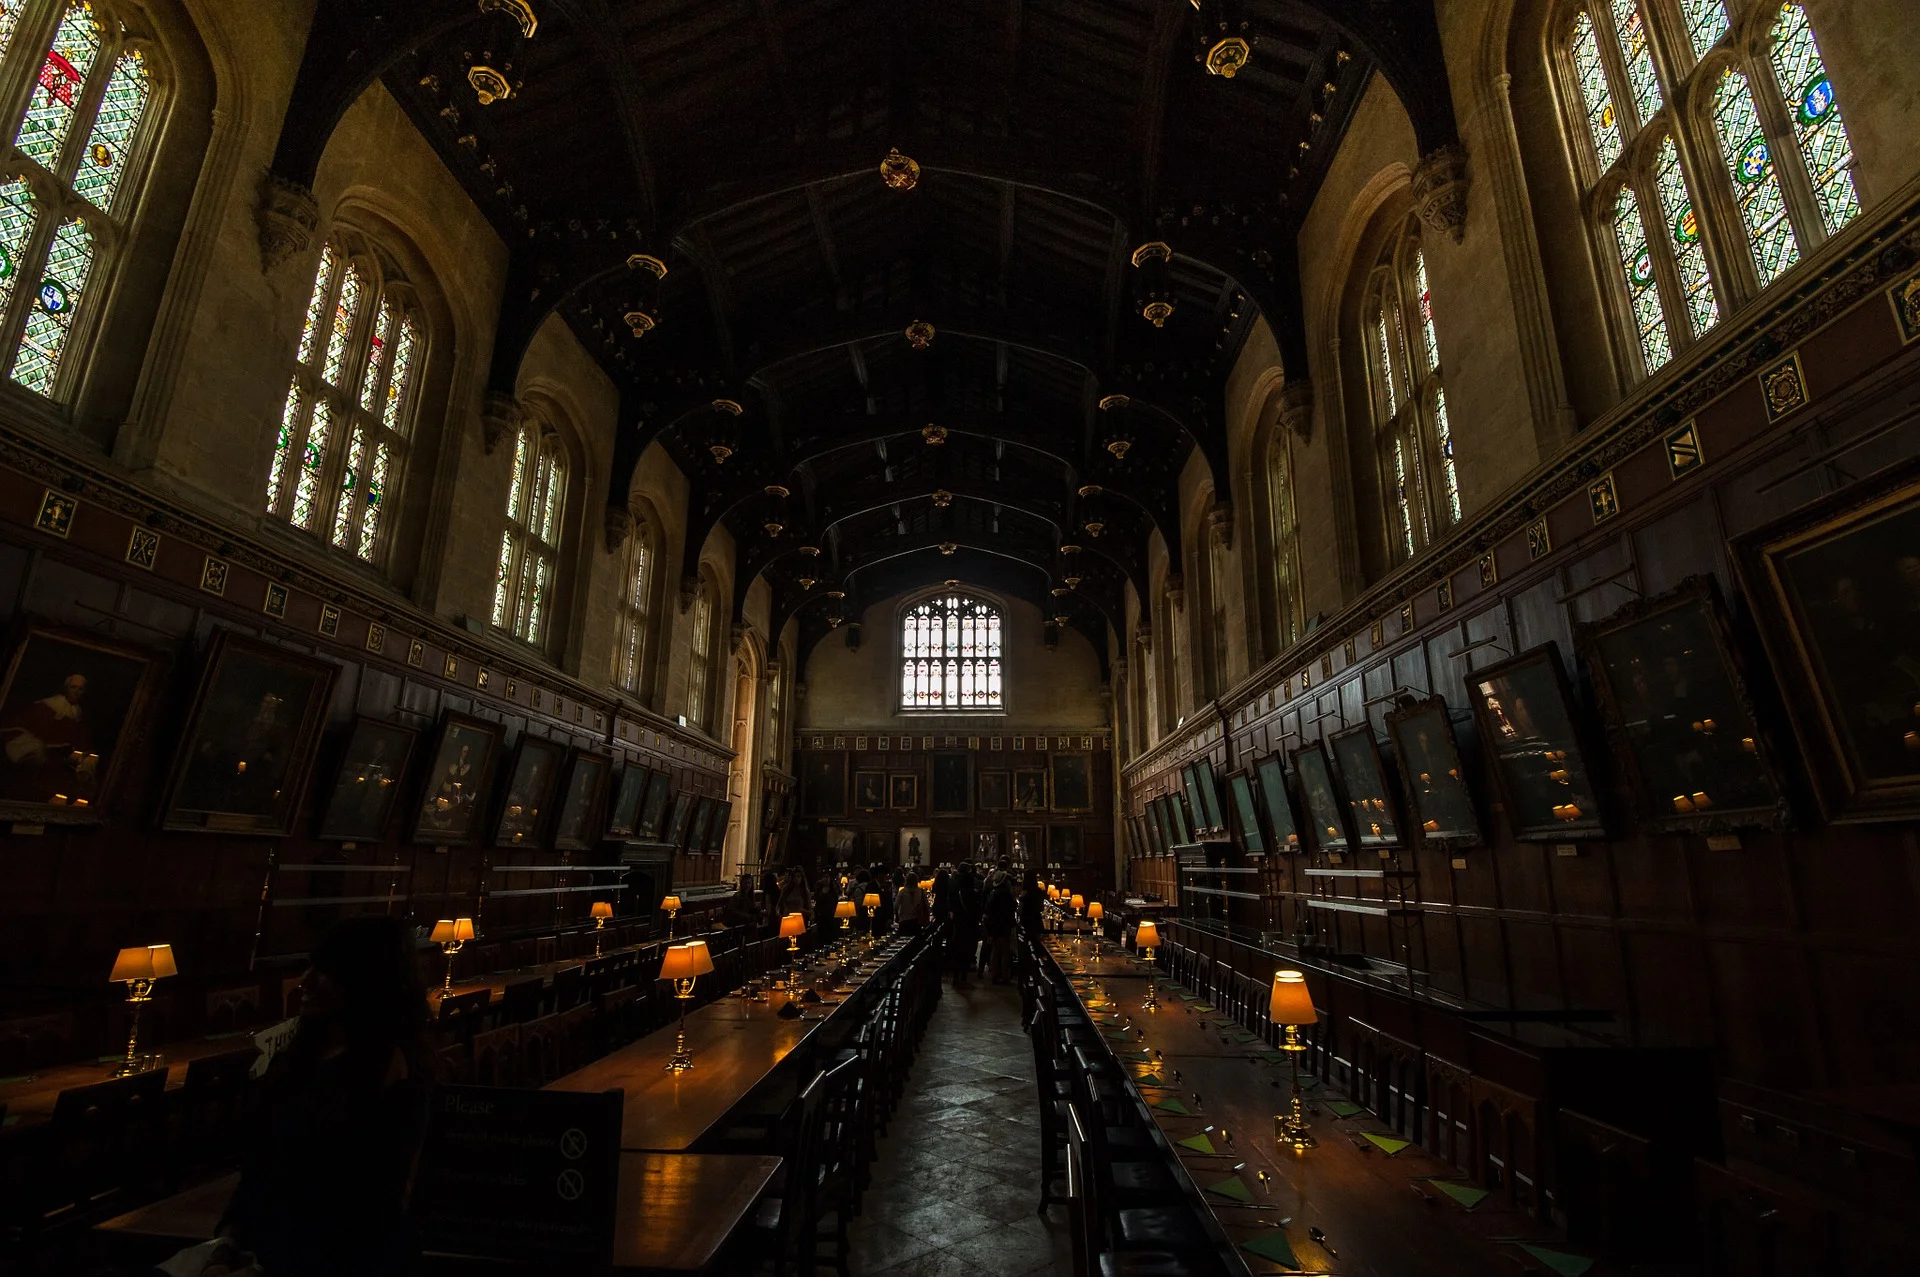
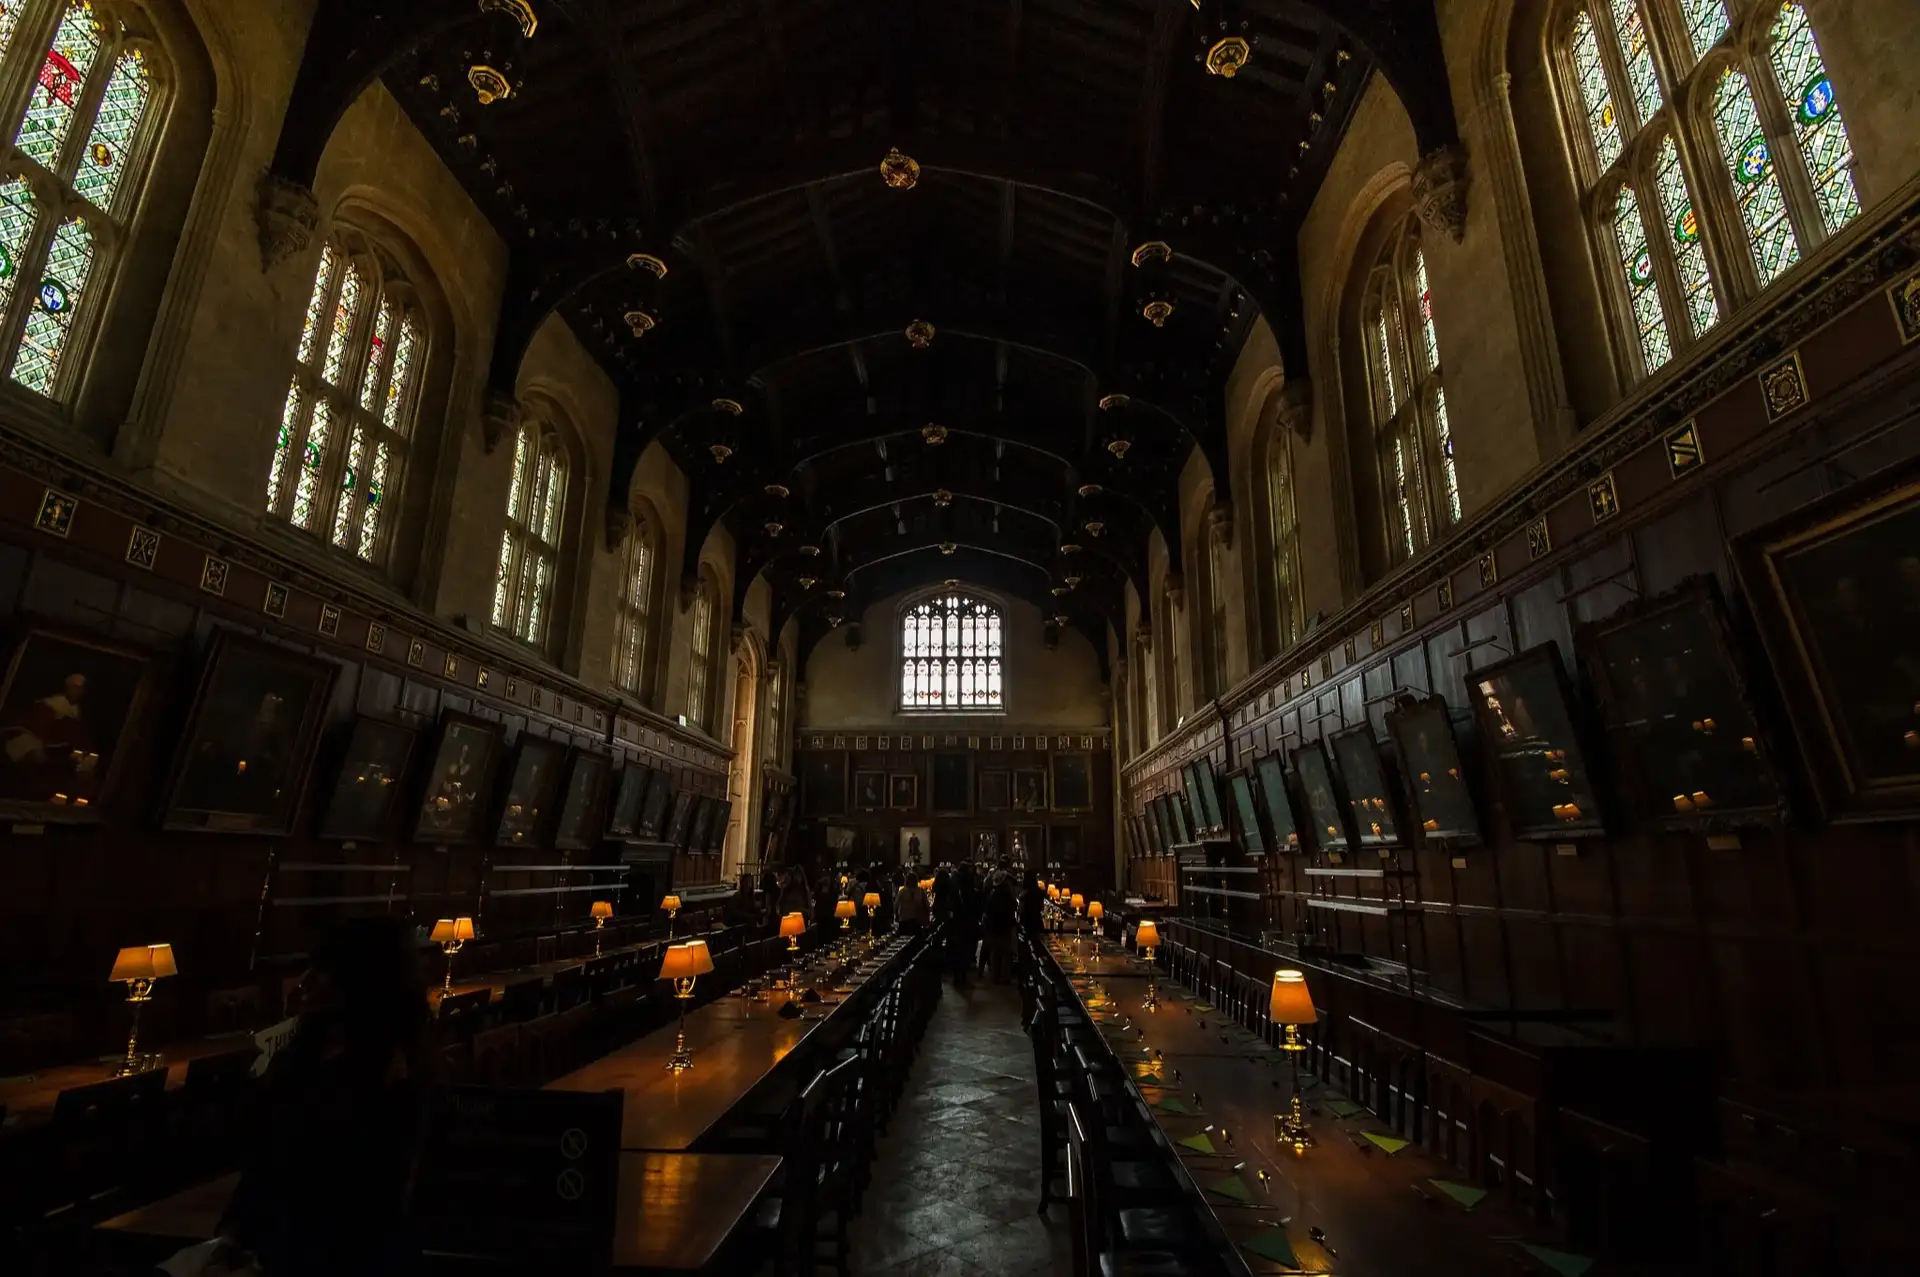
optimized images

diff --git a/index.html b/index.html
@@ -52,7 +52,7 @@
 		}
 
 		.div6 {
-			background-image: url('5.jpg');
+			background-image: url('5.webp');
 			opacity: 0.6;
 		}
 
@@ -247,7 +247,7 @@
 	<div id = "div1" class="div1">
 
 		<div>
-			<img src="icon.png" height="30" width="30">
+			<img src="icon.webp" height="30" width="30">
 		</div>
 		<div>
 			<a href="#d1"><span>Let's explore</span></a>
